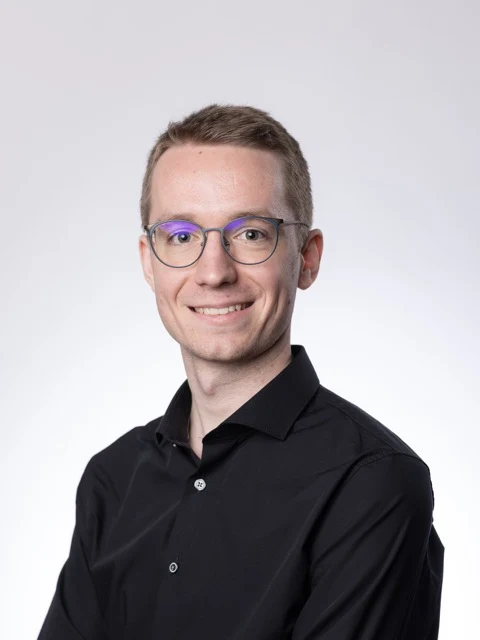
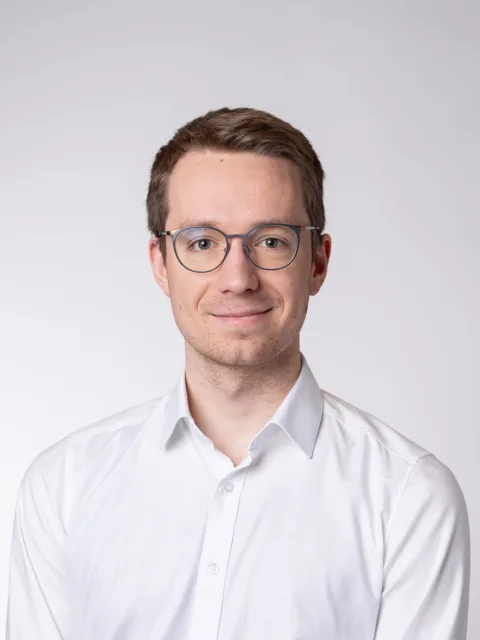
Update profile and portrait

diff --git a/index.html b/index.html
@@ -4,7 +4,7 @@
   <meta charset="UTF-8">
   <meta name="viewport" content="width=device-width, initial-scale=1">
   <meta name="author" content="David Schnurr">
-  <meta name="description" content="David Schnurr is an MSc Computer Science student at ETH Zurich interested in tabular machine learning, time series forecasting, distribution shifts, software engineering, and finance.">
+  <meta name="description" content="David Schnurr is an ETH Zurich Computer Science graduate and Quantitative Technology Intern at Qube Research & Technologies, interested in machine learning, software engineering, and finance.">
   <meta name="color-scheme" content="light dark">
 
   <title>David Schnurr</title>
@@ -15,14 +15,14 @@
 
   <meta property="og:type" content="profile">
   <meta property="og:title" content="David Schnurr">
-  <meta property="og:description" content="MSc Computer Science student at ETH Zurich working on tabular machine learning, time series forecasting, and distribution shifts.">
+  <meta property="og:description" content="ETH Zurich Computer Science graduate and Quantitative Technology Intern at Qube Research & Technologies.">
   <meta property="og:url" content="https://schnurrd.com/">
-  <meta property="og:image" content="https://schnurrd.com/images/david-640.jpeg">
+  <meta property="og:image" content="https://schnurrd.com/images/david-640.jpeg?v=20260829-3">
   <meta property="og:image:alt" content="Portrait of David Schnurr">
   <meta name="twitter:card" content="summary_large_image">
   <meta name="twitter:title" content="David Schnurr">
-  <meta name="twitter:description" content="MSc Computer Science student at ETH Zurich working on tabular machine learning, time series forecasting, and distribution shifts.">
-  <meta name="twitter:image" content="https://schnurrd.com/images/david-640.jpeg">
+  <meta name="twitter:description" content="ETH Zurich Computer Science graduate and Quantitative Technology Intern at Qube Research & Technologies.">
+  <meta name="twitter:image" content="https://schnurrd.com/images/david-640.jpeg?v=20260829-3">
 
   <script>
     (function () {
@@ -67,13 +67,13 @@
       <div class="profile-body">
         <div class="profile-copy">
           <p>
-            I am currently pursuing a Master of Science in Computer Science at <a href="https://ethz.ch/">ETH Zurich</a>, specializing in Machine Intelligence with a Minor in Data Management. My main research interests lie in tabular machine learning, time series forecasting, and addressing (temporal) distribution shifts. I also have a strong interest in Software Engineering and Finance.
+            I recently graduated with a Master of Science in Computer Science from <a href="https://ethz.ch/">ETH Zurich</a>, specializing in Machine Intelligence with a Minor in Data Management, and achieved a grade average of 5.61 out of 6.0. My main research interests lie in tabular machine learning, time series forecasting, and addressing (temporal) distribution shifts. I also have a strong interest in Software Engineering and Finance.
           </p>
           <p>
             Prior to joining ETH, I completed my Bachelor of Science in Computer Science at the <a href="https://www.uni-freiburg.de/">University of Freiburg</a>, where I graduated with a grade average of 1.1 (top 2%) and a focus on Machine Learning complemented by Algorithm Development and Analysis.
           </p>
           <p>
-            I have gained professional experience as a Software Engineering Intern at <a href="https://www.citadel.com/">Citadel</a> in the Central OTC team, where I contributed to core production systems in C++ and Python. I also completed a 7-month internship at <a href="https://www.rheinmetall.com/">Rheinmetall Air Defence AG</a>, where I contributed to improving a real-time computer vision pipeline. This role enabled me to apply my deep learning and software engineering skills to optimize latency and accuracy while improving the system's robustness. I also led the integration of our pipeline within other systems, collaborating closely with multiple departments.
+            I am currently a Quantitative Technology Intern at <a href="https://www.qube-rt.com/">Qube Research &amp; Technologies (QRT)</a> in London. Previously, I worked as a Software Engineering Intern at <a href="https://www.citadel.com/">Citadel</a> in the Central OTC team, where I contributed to core production systems in C++ and Python. I also completed a 7-month internship at <a href="https://www.rheinmetall.com/">Rheinmetall Air Defence AG</a>, where I contributed to improving a real-time computer vision pipeline. This role enabled me to apply my deep learning and software engineering skills to optimize latency and accuracy while improving the system's robustness. I also led the integration of our pipeline within other systems, collaborating closely with multiple departments.
           </p>
           <p>
             Additionally, I worked as a research assistant at the <a href="https://ml.informatik.uni-freiburg.de/">Machine Learning Lab</a> of the University of Freiburg. There, I enhanced the TabPFN model by implementing techniques such as comprehensive missing value generation and model fine-tuning, resulting in improved benchmark performance.
@@ -91,10 +91,10 @@
         </div>
 
         <figure class="profile-photo">
-          <a href="images/david.jpeg" aria-label="Open full-size portrait of David Schnurr">
+          <a href="images/david.jpeg?v=20260829-3" aria-label="Open full-size portrait of David Schnurr">
             <picture>
-              <source srcset="images/david-640.webp 480w, images/david-960.webp 720w" sizes="(max-width: 420px) 46vw, (max-width: 700px) 42vw, 250px" type="image/webp">
-              <img src="images/david-960.jpeg" srcset="images/david-640.jpeg 480w, images/david-960.jpeg 720w" sizes="(max-width: 420px) 46vw, (max-width: 700px) 42vw, 250px" width="720" height="960" alt="Portrait of David Schnurr" decoding="async" fetchpriority="high">
+              <source srcset="images/david-640.webp?v=20260829-3 480w, images/david-960.webp?v=20260829-3 720w" sizes="(max-width: 420px) 46vw, (max-width: 700px) 42vw, 250px" type="image/webp">
+              <img src="images/david-960.jpeg?v=20260829-3" srcset="images/david-640.jpeg?v=20260829-3 480w, images/david-960.jpeg?v=20260829-3 720w" sizes="(max-width: 420px) 46vw, (max-width: 700px) 42vw, 250px" width="720" height="960" alt="Portrait of David Schnurr" decoding="async" fetchpriority="high">
             </picture>
           </a>
         </figure>
